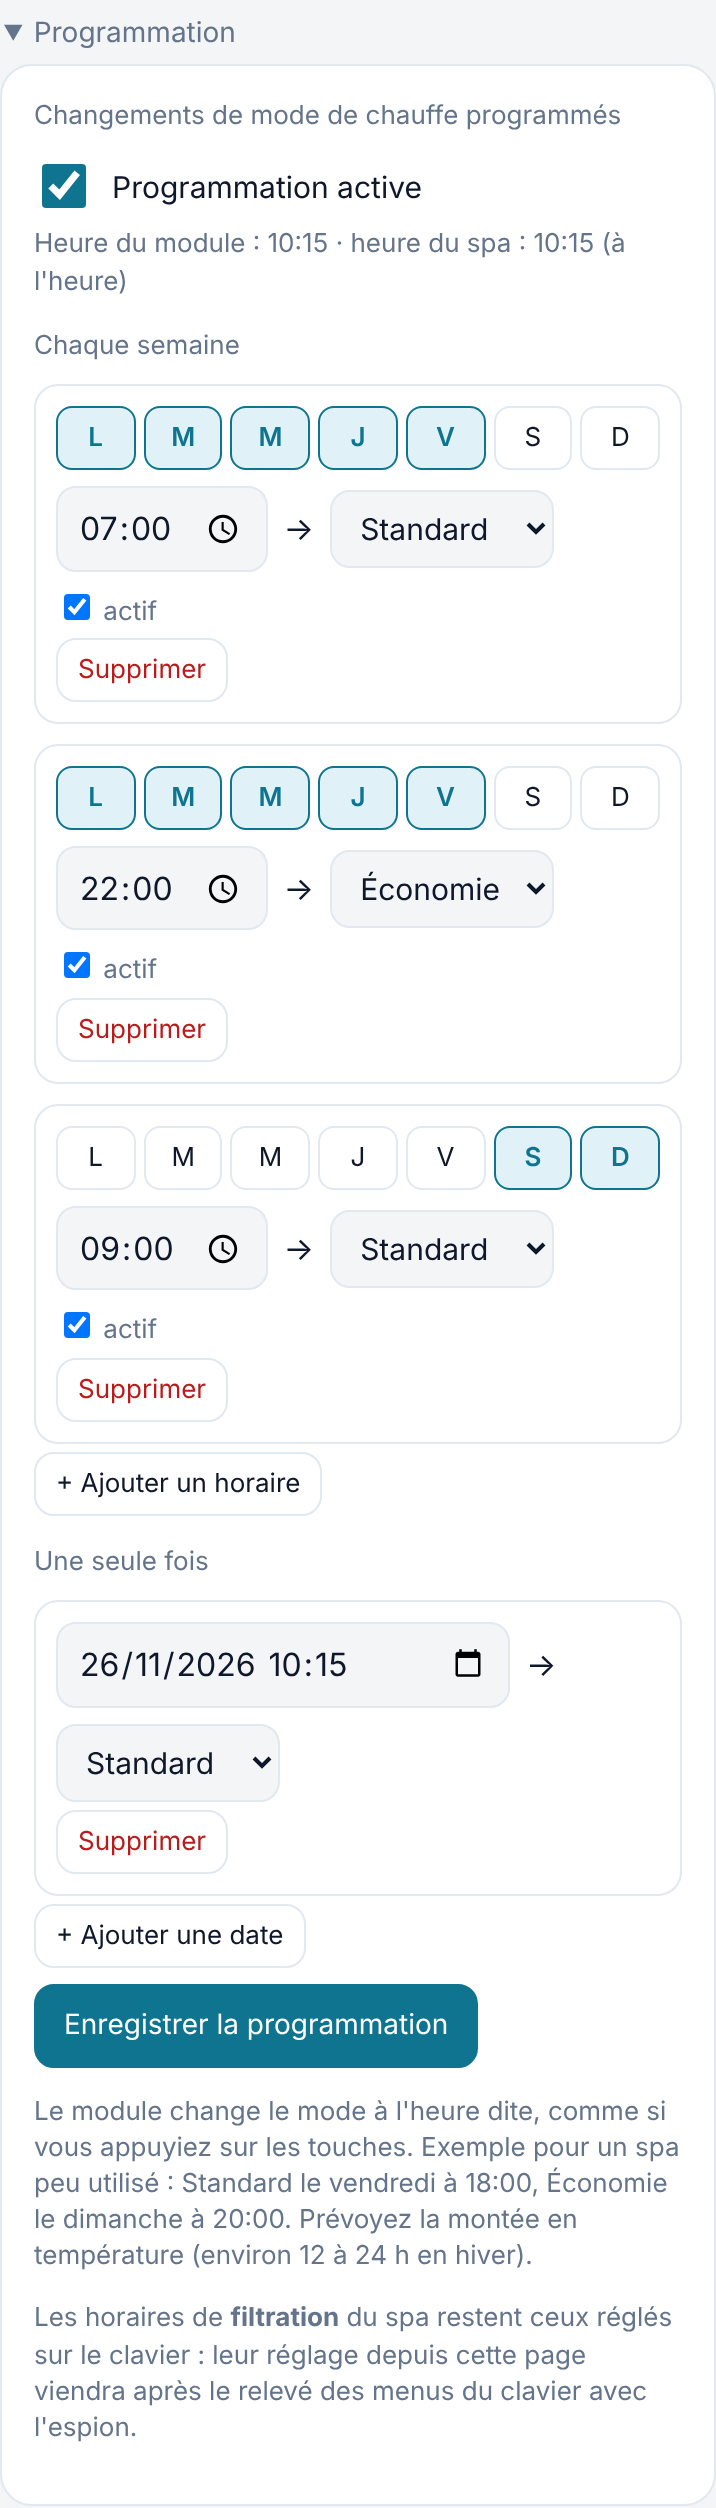
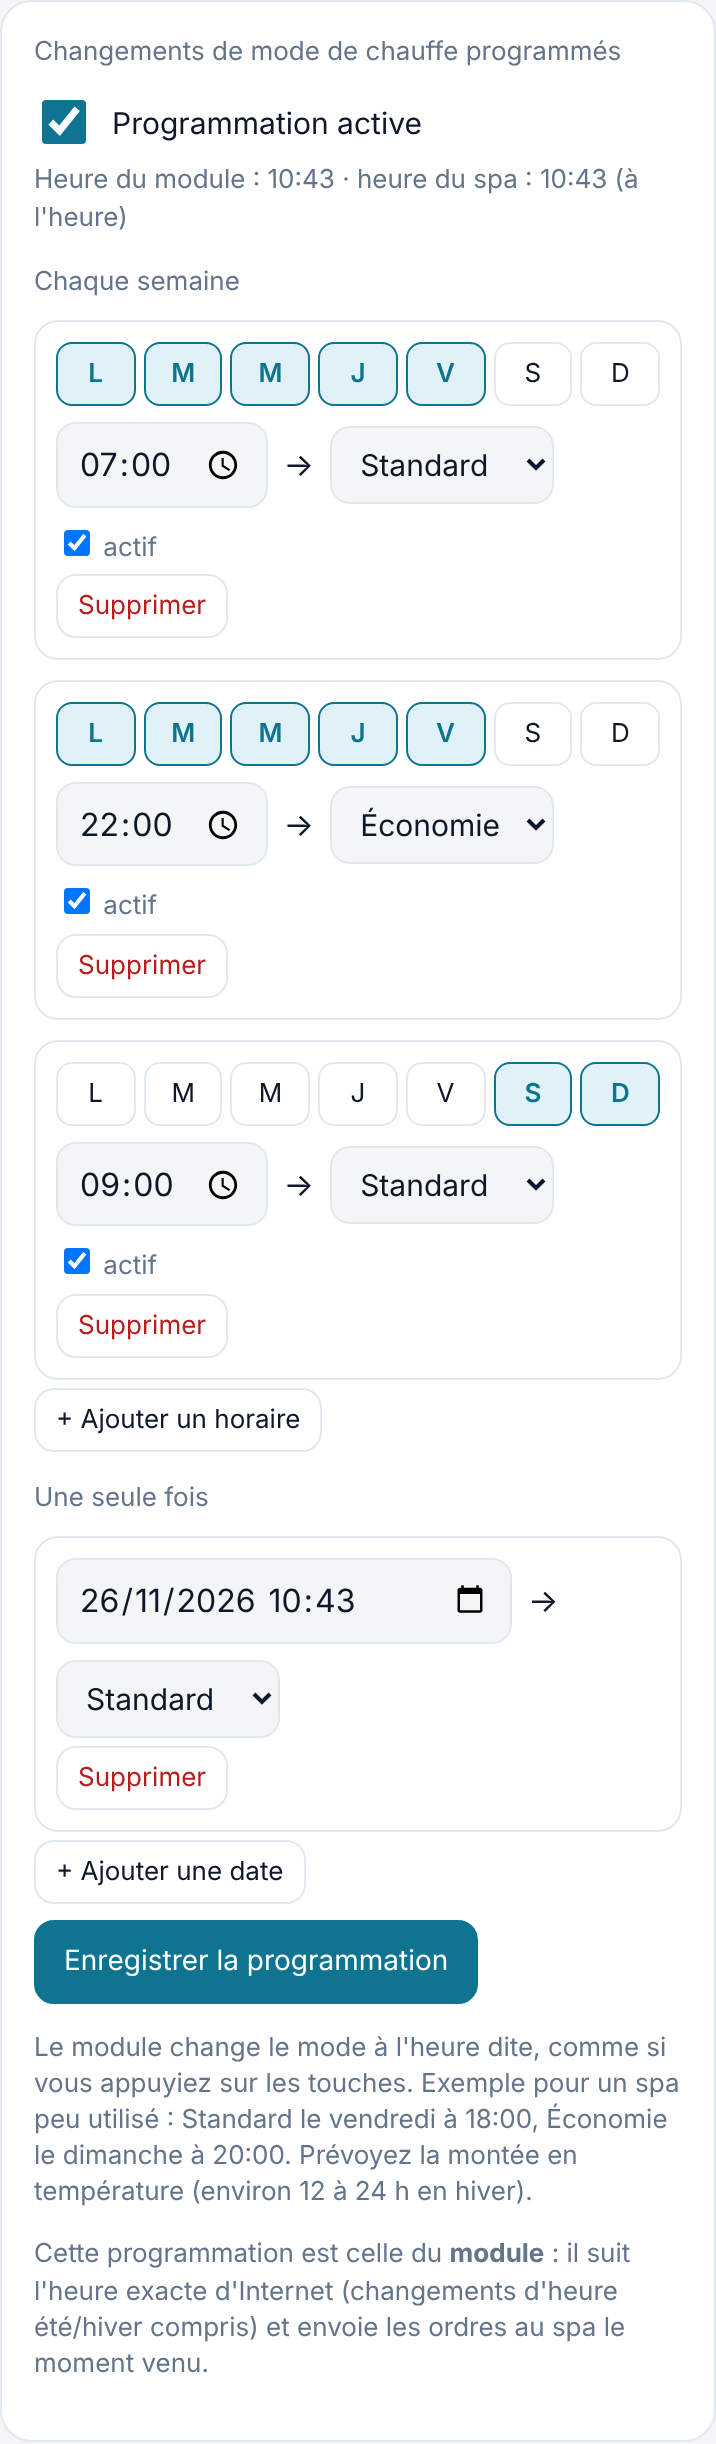
Horloge du spa et relevé de la filtration : documentation, captures - v1.9.0
Claude-Session: https://claude.ai/code/session_01QecKjxa68Ae7mJvySBfe33

diff --git a/README.md b/README.md
@@ -142,6 +142,7 @@ Branchement : circuit **6** du spa → entrée **+** du module, circuit **1** (o
    - Aucune donnée : **inverser les fils A et B**.
    - « Signal de sélection non détecté » : vérifier le fil du circuit 2 et le pont diviseur.
 9. **Capturer les touches** du ML700 (voir ci-dessous), puis tester un changement de mode Économie → Standard depuis la page.
+   - Puis **Programmation → « Mettre le spa à l'heure maintenant »** (cela active la mise à l'heure automatique), et **« Relever les cycles de filtration »** : exporter le journal pour la suite.
 10. Installation définitive dans le boîtier IP65, câble passé par un presse-étoupe.
 
 ⚠ **Coupez l'alimentation du spa au tableau avant tout branchement ou débranchement.** Les mesures sous tension se font uniquement dans la zone des connecteurs basse tension, à droite de la carte, loin des borniers et des relais.
@@ -193,7 +194,7 @@ Captures de la page **http://jacuzzi.local** sur un téléphone, **avec des donn
 <td width="50%" valign="top"><b>Mode et historique 24 h</b> : les zones colorées indiquent la chauffe en marche.<br><img src="docs/ecrans/2-mode-historique.png" width="300" alt="Mode de chauffe et historique"></td>
 </tr>
 <tr>
-<td valign="top"><b>Programmation</b> : changements de mode chaque semaine ou à une date précise ; affiche l'écart entre l'heure du module et celle du spa.<br><img src="docs/ecrans/4-programmation.png" width="300" alt="Programmation"></td>
+<td valign="top"><b>Programmation</b> : changements de mode chaque semaine ou à une date précise (horloge du spa et filtration : voir « Programmation des modes de chauffe »).<br><img src="docs/ecrans/4-programmation.png" width="300" alt="Programmation"></td>
 <td valign="top"><b>Réglages – personnalisation</b> : nom du spa, ville pour la météo, fonctions affichées et leur nom (la pompe 3 n'apparaît sur l'accueil qu'une fois son code saisi).<br><img src="docs/ecrans/3-reglages-1.png" width="300" alt="Réglages, personnalisation"></td>
 </tr>
 <tr>
@@ -223,8 +224,26 @@ Section **Programmation** de la page. Le module change le mode (Standard / Écon
 - Le **prochain changement** s'affiche sous le mode de chauffe, sur la page d'accueil.
 - Le module prend l'heure sur Internet (heure de France, passage été/hiver automatique). Sans Internet, il attend que l'heure soit connue (elle est aussi donnée par le téléphone à l'ouverture de la page).
 - Si le changement est impossible sur le moment (mode inconnu, commandes en cours), le module réessaie pendant 15 minutes.
-- La section affiche aussi l'**heure du spa** et l'écart avec l'heure réelle.
-- **Pas encore possible :** régler l'heure du spa et les **cycles de filtration** depuis la page. Il faut d'abord relever avec l'espion la navigation dans les menus du ML700 (touches Time et Mode/Prog).
+- Cette programmation est celle du **module** : c'est lui qui suit l'heure exacte et envoie les ordres au spa.
+
+### Horloge du spa (mise à l'heure automatique)
+
+Le spa a sa propre horloge, qui commande ses **cycles de filtration**. Le module la tient à l'heure exacte d'Internet, **changements d'heure été/hiver compris** :
+
+- Bouton **« Mettre le spa à l'heure maintenant »** : le module rejoue la séquence du manuel ML700 (réf. 40520-99, p. 2) : *Time → Mode/Prog → Warm/Cool (heures) → Mode/Prog → Warm/Cool (minutes) → Time*. Il vise l'heure qu'il sera à la fin de la séquence, puis vérifie l'heure du spa ; en cas d'écart, il refait un essai.
+- **Mise à l'heure automatique** (case cochée par défaut) : dès que l'horloge du spa s'écarte de **2 min ou plus**, par exemple à 3 h du matin le dernier dimanche d'octobre, le module la corrige. Au maximum 3 essais par jour, pause de 2 h après un échec, jamais pendant que la pompe 2, la pompe 1 en vitesse 2 ou l'éclairage sont en marche.
+- Le réglage automatique ne démarre **qu'après une première mise à l'heure réussie avec le bouton** : c'est la preuve que les codes des touches Time, Mode, Warm et Cool sont bons sur votre spa.
+- **Sécurités** : chaque touche attend l'accusé de réception du spa. Avant chaque Warm/Cool, le module vérifie que l'écran n'affiche pas une température (sinon l'appui changerait la consigne) et que le menu des modes n'est pas ouvert (Cool changerait le mode). Sinon il s'arrête sans rien appuyer de plus ; le menu se referme seul. Pendant la séquence (une dizaine de secondes), les autres commandes sont refusées (« réessayez »).
+- Le journal garde le détail (codes de menu et affichage à chaque étape).
+
+<img src="docs/ecrans/7-horloge.png" width="300" alt="Horloge du spa">
+
+### Cycles de filtration
+
+Les cycles sont exécutés **par le spa**, selon son horloge (2 cycles par jour : F1 et F2, début et fin, par pas de 5 min ; souvent 8:00–10:00 et 20:00–22:00 par défaut).
+
+- **Aujourd'hui :** bouton **« Relever les cycles de filtration »**. Le module parcourt les réglages (*Time*, puis *Mode/Prog* répété) **sans rien modifier** et note pour chaque étape le code de menu et l'affichage du spa. Le résultat s'affiche sous le bouton et dans le journal.
+- **Prochaine étape :** le réglage des cycles depuis la page. Le manuel décrit la séquence, mais pas ce que l'écran affiche dans ces menus ni le nombre exact d'appuis entre « fin F1 » et « début F2 ». Pour ne rien modifier à l'aveugle, ce réglage sera activé après **un relevé fait sur votre spa** (exporter le journal et me l'envoyer).
 
 ## Codes des touches et pompe 3
 

diff --git a/CHANGELOG.md b/CHANGELOG.md
@@ -2,6 +2,11 @@
 
 Chaque section s'affiche comme note lors de la mise à jour en ligne (Réglages et informations → Rechercher une mise à jour).
 
+## 1.9.0
+- Horloge du spa : mise à l'heure depuis la page (touches Time, Mode/Prog, Warm, Cool, avec vérification à chaque appui) et mise à l'heure automatique quand l'écart atteint 2 min, changements d'heure été/hiver compris. L'automatique démarre après une première mise à l'heure réussie.
+- Relevé des cycles de filtration (lecture seule, Time puis Mode/Prog) : affichage et code de menu notés à chaque étape, pour préparer leur réglage depuis la page.
+- Correction : l'accusé de réception des touches est lu dans toutes les trames d'état, y compris quand l'écran n'affiche pas une température (menus heure et filtration). Avant, ces appuis étaient considérés comme perdus.
+
 ## 1.8.2
 - Numérotation officielle Molex dans la documentation (circuit 1 = triangle imprimé sur la carte) ; les messages parlent du « signal de sélection (circuit 2) » au lieu de la « broche 5 » du projet d'origine.
 
